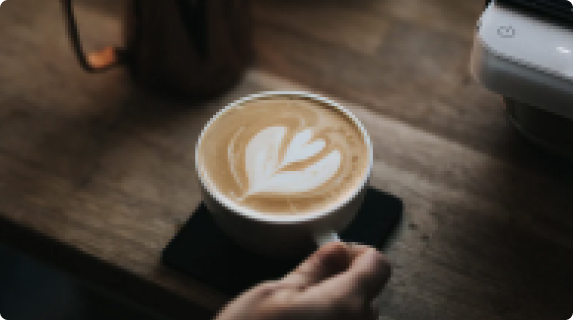
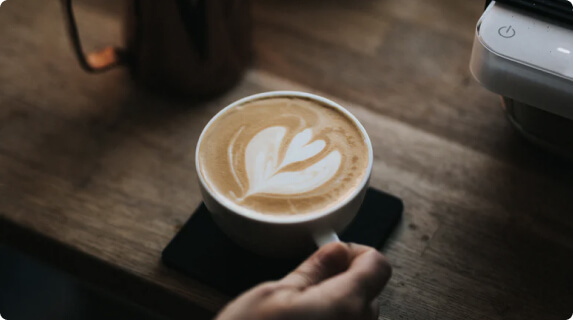
Optimizing images

diff --git a/coffeeroasters/about.html b/coffeeroasters/about.html
@@ -28,7 +28,7 @@
             </li>
 
             <li class="sitenav__item">
-              <a class="sitenav__link" href="#">About us</a>
+              <a class="sitenav__link" href="./about.html">About us</a>
             </li>
 
             <li class="sitenav__item">
@@ -97,12 +97,18 @@
 
       <section class="quality">
         <picture class="quality__img-wrapper">
+          <source srcset="./images/bg-quality-desktop.webp 1x, ./images/bg-quality-desktop@2x.webp 2x"
+            media="(min-width: 1150px)" type="image/webp">
           <source srcset="./images/bg-quality-desktop.jpg 1x, ./images/bg-quality-desktop@2x.jpg 2x"
             media="(min-width: 1150px)" type="image/jpeg">
+          <source srcset="./images/bg-quality-tablet.webp 1x, ./images/bg-quality-tablet@2x.webp 2x"
+            media="(min-width: 580px)" type="image/webp">
           <source srcset="./images/bg-quality-tablet.jpg 1x, ./images/bg-quality-tablet@2x.jpg 2x"
             media="(min-width: 580px)" type="image/jpeg">
+          <source srcset="./images/bg-quality.webp 1x, ./images/bg-quality@2x.webp 2x" type="image/webp">
+
           <img class="quality__img" src="./images/bg-quality.jpg" width="279" height="156"
-            srcset="./images/bg-quality@2x.jpg 2x" alt="Coffee">
+            srcset="./images/bg-quality.jpg 1x, ./images/bg-quality@2x.jpg 2x" alt="Coffee">
         </picture>
 
         <div class="quality__text">
@@ -172,7 +178,7 @@
             </li>
 
             <li class="footer-nav__item">
-              <a class="footer-nav__link" href="#">About us</a>
+              <a class="footer-nav__link" href="./about.html">About us</a>
             </li>
 
             <li class="footer-nav__item">

diff --git a/coffeeroasters/index.html b/coffeeroasters/index.html
@@ -28,7 +28,7 @@
             </li>
 
             <li class="sitenav__item">
-              <a class="sitenav__link" href="#">About us</a>
+              <a class="sitenav__link" href="./about.html">About us</a>
             </li>
 
             <li class="sitenav__item">
@@ -208,7 +208,7 @@
             </li>
 
             <li class="footer-nav__item">
-              <a class="footer-nav__link" href="#">About us</a>
+              <a class="footer-nav__link" href="./about.html">About us</a>
             </li>
 
             <li class="footer-nav__item">
